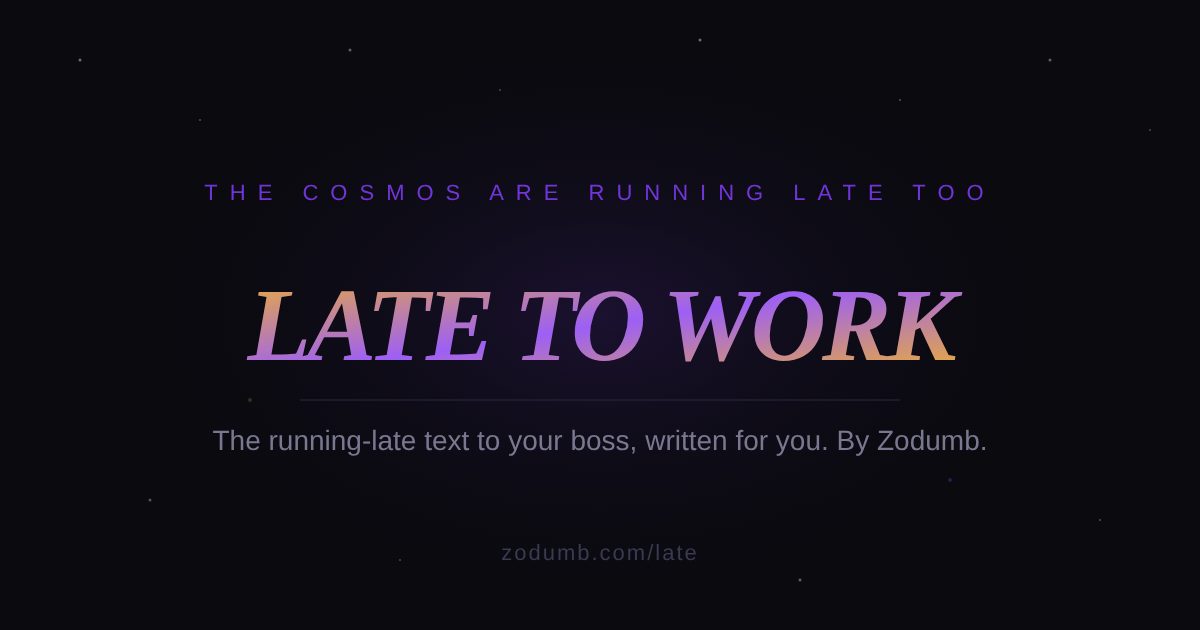
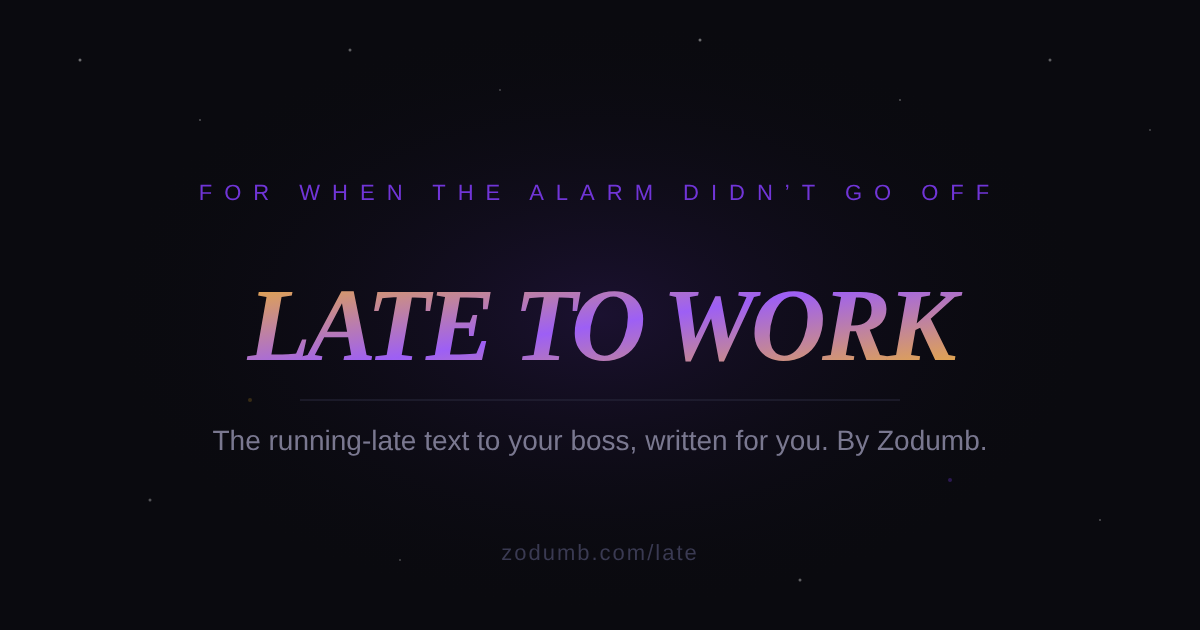
Tone down the wording on the excuse generators
Replaces the "the cosmos are..." lines, "Chaos is." and "questionable
cosmic energy" on /sick, /money and /late with plain copy, renames the
"Unhinged" option to "Absurd" and "Brutally honest" to "Honest", and
softens the matching Gemini instructions ("completely unhinged",
"chaotic truth energy", "soap-opera stakes"). The share card for the
excuse generators now says "Made with Zodumb" instead of "The cosmos are
judging you", and the social preview images are re-rendered with the
new taglines. The horoscope page is unchanged.

Claude-Session: https://claude.ai/code/session_01VKu2d9zDfeNTazfPdeBYm8

Changed region(s): [[0.185, 0.2714, 0.6783, 0.3317], [0.7708, 0.2714, 0.8325, 0.3317], [0.6783, 0.2714, 0.74, 0.3317]]

diff --git a/late.html b/late.html
@@ -8,7 +8,7 @@
 
     <!-- Primary SEO -->
     <title>Late to Work Excuse Generator — Text Your Boss | Zodumb</title>
-    <meta name="description" content="Running late? Get a free late to work excuse text, Slack message or email for your boss, teacher or date in seconds. Believable to unhinged. No sign-up." />
+    <meta name="description" content="Running late? Get a free late to work excuse text, Slack message or email for your boss, teacher or date in seconds. Believable to absurd. No sign-up." />
     <meta name="keywords" content="late to work excuse, late to work excuse text, running late text to boss, what to text boss when late, excuse for being late to work, running late message, late excuse generator" />
     <meta name="robots" content="index, follow, max-image-preview:large" />
     <link rel="canonical" href="https://zodumb.com/late" />
@@ -28,7 +28,7 @@
     <meta name="twitter:card" content="summary_large_image" />
     <meta name="twitter:url" content="https://zodumb.com/late" />
     <meta name="twitter:title" content="Late to Work Excuse Generator | Zodumb" />
-    <meta name="twitter:description" content="Running late? Get a ready-to-send excuse for your boss, teacher or date in seconds. Believable to unhinged." />
+    <meta name="twitter:description" content="Running late? Get a ready-to-send excuse for your boss, teacher or date in seconds. Believable to absurd." />
     <meta name="twitter:image" content="https://zodumb.com/og-image-late.png" />
     <meta name="twitter:image:alt" content="Zodumb Late to Work Excuse Generator" />
 
@@ -72,7 +72,7 @@
       "name": "What is a good excuse for being late to work?",
       "acceptedAnswer": {
         "@type": "Answer",
-        "text": "The best excuses are short, boring and believable, like traffic, a transit delay or a home issue. If you want something funnier, switch the vibe to Dramatic, Brutally honest or Unhinged."
+        "text": "The best excuses are short, boring and believable, like traffic, a transit delay or a home issue. If you want something funnier, switch the vibe to Dramatic, Honest or Absurd."
       }
     },
     {
@@ -190,15 +190,15 @@
       <h2>Who's waiting on you?</h2>
       <p>It isn't only for work. Pick your <strong>boss</strong>, <strong>manager</strong>, <strong>teacher</strong>, <strong>professor</strong>, a <strong>client</strong>, the <strong>team chat</strong>, your <strong>date</strong>, or a <strong>friend</strong> who's already at the restaurant. A message to a client reads differently than one to your group chat, and the generator adjusts the tone for you.</p>
 
-      <h2>From believable to unhinged</h2>
-      <p>Choose the vibe: <strong>Believable</strong> (traffic-level boring), <strong>Dramatic</strong> (a soap opera on the commute), <strong>Vague</strong> ("something came up"), <strong>Brutally honest</strong> (you snoozed nine times), or <strong>Unhinged</strong> (an excuse that escalates the more you read it). Each one gets a believability score. It's a joke, not a promise.</p>
+      <h2>From believable to absurd</h2>
+      <p>Choose the vibe: <strong>Believable</strong> (traffic-level boring), <strong>Dramatic</strong> (a big story about the commute), <strong>Vague</strong> ("something came up"), <strong>Honest</strong> (you hit snooze one too many times), or <strong>Absurd</strong> (a reason that gets sillier the more you read it). Each one gets a believability score. It's a joke, not a promise.</p>
 
       <h2>Example late excuse messages</h2>
       <ul>
         <li><strong>Believable, text to boss, 15 min:</strong> "Morning! Traffic on the highway is crawling, so I'm about 15 minutes behind. Should be in by 9:15. Sorry about that!"</li>
         <li><strong>Vague, Slack to team, 30 min:</strong> "Heads up, something came up this morning. Running about 30 behind, will catch up on anything I miss 🙏"</li>
-        <li><strong>Brutally honest, text to friend, 1 hour:</strong> "I'm not going to lie to you. I closed my eyes for 'five minutes' and woke up an hour later. Order me fries. I'm coming."</li>
-        <li><strong>Unhinged, text to date, 15 min:</strong> "Running 15 late because a goose has claimed my parking spot and we are currently negotiating. I'm winning. Mostly."</li>
+        <li><strong>Honest, text to friend, 1 hour:</strong> "I'm not going to lie to you. I closed my eyes for 'five minutes' and woke up an hour later. Order me fries. I'm coming."</li>
+        <li><strong>Absurd, text to date, 15 min:</strong> "Running 15 late because a goose has claimed my parking spot and we are currently negotiating. I'm winning. Mostly."</li>
       </ul>
 
       <h2>How it works</h2>
@@ -216,7 +216,7 @@
       <p>Keep it short: say you&#x27;re running late, give a rough arrival time, and apologize once. Pick Believable in the generator and choose how late you are, and it writes a ready-to-send text, Slack message or email for you.</p>
 
       <h3>What is a good excuse for being late to work?</h3>
-      <p>The best excuses are short, boring and believable, like traffic, a transit delay or a home issue. If you want something funnier, switch the vibe to Dramatic, Brutally honest or Unhinged.</p>
+      <p>The best excuses are short, boring and believable, like traffic, a transit delay or a home issue. If you want something funnier, switch the vibe to Dramatic, Honest or Absurd.</p>
 
       <h3>Should I text, Slack or email when I&#x27;m late?</h3>
       <p>Use whatever your workplace already uses for quick updates. A text works for most bosses, Slack suits teams that live in chat, and email is better for clients or professors. The generator writes all three.</p>

diff --git a/sick.html b/sick.html
@@ -82,7 +82,7 @@
           "name": "Can I choose how believable the excuse is?",
           "acceptedAnswer": {
             "@type": "Answer",
-            "text": "Yes. Pick from Believable, Dramatic, Vague, Unhinged, or Emergency, and the generator adjusts the tone accordingly — from a boring plausible excuse to a full unhinged escalation."
+            "text": "Yes. Pick from Believable, Dramatic, Vague, Absurd, or Emergency, and the generator adjusts the tone accordingly — from a boring, plausible excuse to a completely absurd one."
           }
         },
         {
@@ -183,7 +183,7 @@
       <p>Choose from <strong>boss</strong>, <strong>manager</strong>, <strong>HR</strong>, <strong>teacher</strong>, <strong>professor</strong>, <strong>coach</strong>, <strong>client</strong>, or the <strong>group chat</strong>. Each recipient nudges the tone — a message to HR reads differently than one to your roommate group chat.</p>
 
       <h2>Pick your believability</h2>
-      <p>Every excuse is generated at a chosen vibe: <strong>Believable</strong> (genuinely plausible), <strong>Dramatic</strong> (soap-opera stakes), <strong>Vague</strong> (zero specifics, maximum mystery), <strong>Unhinged</strong> (chaotic honesty), or <strong>Emergency</strong> (an escalating fake crisis). It's a comedy tool — the believability score is a punchline, not a promise.</p>
+      <p>Every excuse is generated at a chosen vibe: <strong>Believable</strong> (genuinely plausible), <strong>Dramatic</strong> (big, over-the-top stakes), <strong>Vague</strong> (zero specifics, maximum mystery), <strong>Absurd</strong> (silly, oversharing honesty), or <strong>Emergency</strong> (an escalating fake crisis). It's a comedy tool — the believability score is a punchline, not a promise.</p>
 
       <h2>Text, Slack, or email — your choice</h2>
       <p>Select the format and the generator writes accordingly: a short casual <strong>text message</strong>, a quick <strong>Slack message</strong>, or a full <strong>email</strong> complete with a subject line and sign-off.</p>
@@ -203,7 +203,7 @@
       <p>No. This is pure comedy, not a legal or medical document. The excuses are invented by AI for entertainment — accuracy and believability are not guaranteed.</p>
 
       <h3>Can I choose how believable the excuse is?</h3>
-      <p>Yes. Pick from Believable, Dramatic, Vague, Unhinged, or Emergency, and the tone adjusts accordingly.</p>
+      <p>Yes. Pick from Believable, Dramatic, Vague, Absurd, or Emergency, and the tone adjusts accordingly.</p>
 
       <h3>Does it work for text, Slack, and email?</h3>
       <p>Yes. Pick the format and the message is written to match, including a subject line for email.</p>

diff --git a/src/LateApp.jsx b/src/LateApp.jsx
@@ -26,8 +26,8 @@ const LATE_VIBES = [
   { id: 'believable', emoji: '✅', label: 'Believable' },
   { id: 'dramatic', emoji: '🎭', label: 'Dramatic' },
   { id: 'vague', emoji: '🌫', label: 'Vague' },
-  { id: 'honest', emoji: '😬', label: 'Brutally honest' },
-  { id: 'unhinged', emoji: '🤪', label: 'Unhinged' },
+  { id: 'honest', emoji: '😬', label: 'Honest' },
+  { id: 'unhinged', emoji: '🤪', label: 'Absurd' },
 ]
 
 const CHANNELS = [
@@ -105,10 +105,10 @@ export default function LateApp() {
 
         {/* Header */}
         <header style={styles.header}>
-          <div style={styles.eyebrow}>THE COSMOS ARE RUNNING LATE TOO</div>
+          <div style={styles.eyebrow}>FOR WHEN THE ALARM DIDN'T GO OFF</div>
           <div style={styles.title}>ZODUMB</div>
           <h1 style={styles.pageH1}>Late to Work Excuse Generator</h1>
-          <p style={styles.subtitle}>Running late? Get the text to your boss in one tap.<br />Believability not guaranteed. Chaos is.</p>
+          <p style={styles.subtitle}>Running late? Get the text to your boss in one tap.<br />Pick a tone, copy it, send it.</p>
         </header>
 
         {/* Main card */}
@@ -212,8 +212,8 @@ export default function LateApp() {
           {loading && (
             <div style={styles.loading}>
               <div style={styles.orb} />
-              <p style={styles.loadingText}>The cosmos are stalling for you…</p>
-              <p style={styles.loadingSubtext}>Inventing traffic that never existed.</p>
+              <p style={styles.loadingText}>Writing your excuse…</p>
+              <p style={styles.loadingSubtext}>Finding a reason that works.</p>
             </div>
           )}
 
@@ -269,7 +269,7 @@ export default function LateApp() {
 
         {/* Footer */}
         <footer style={styles.footer}>
-          <p>Made with questionable cosmic energy · No clocks were harmed</p>
+          <p>Made by Zodumb · For entertainment only</p>
         </footer>
 
       </div>

diff --git a/src/SickApp.jsx b/src/SickApp.jsx
@@ -18,7 +18,7 @@ const SICK_VIBES = [
   { id: 'believable', emoji: '✅', label: 'Believable' },
   { id: 'dramatic', emoji: '🎭', label: 'Dramatic' },
   { id: 'vague', emoji: '🌫', label: 'Vague' },
-  { id: 'unhinged', emoji: '🤪', label: 'Unhinged' },
+  { id: 'unhinged', emoji: '🤪', label: 'Absurd' },
   { id: 'emergency', emoji: '🚨', label: 'Emergency' },
 ]
 
@@ -96,10 +96,10 @@ export default function SickApp() {
 
         {/* Header */}
         <header style={styles.header}>
-          <div style={styles.eyebrow}>THE COSMOS ARE COVERING FOR YOU</div>
+          <div style={styles.eyebrow}>FOR WHEN YOU NEED A DAY OFF</div>
           <div style={styles.title}>ZODUMB</div>
           <h1 style={styles.pageH1}>Call In Sick Excuse Generator</h1>
-          <p style={styles.subtitle}>Pick your excuse. Send with confidence.<br />Believability not guaranteed. Chaos is.</p>
+          <p style={styles.subtitle}>Pick your excuse. Send with confidence.<br />Pick a tone, copy it, send it.</p>
         </header>
 
         {/* Main card */}
@@ -186,8 +186,8 @@ export default function SickApp() {
           {loading && (
             <div style={styles.loading}>
               <div style={styles.orb} />
-              <p style={styles.loadingText}>The cosmos are deliberating…</p>
-              <p style={styles.loadingSubtext}>Forging a note from the cosmos.</p>
+              <p style={styles.loadingText}>Writing your excuse…</p>
+              <p style={styles.loadingSubtext}>Finding a reason that works.</p>
             </div>
           )}
 
@@ -238,7 +238,7 @@ export default function SickApp() {
 
         {/* Footer */}
         <footer style={styles.footer}>
-          <p>Made with questionable cosmic energy · No stars were harmed</p>
+          <p>Made by Zodumb · For entertainment only</p>
         </footer>
 
       </div>

diff --git a/money.html b/money.html
@@ -183,7 +183,7 @@
       <p>Choose a <strong>friend</strong>, <strong>best friend</strong>, <strong>sibling</strong>, <strong>parent</strong>, <strong>cousin</strong>, <strong>aunt or uncle</strong>, <strong>ex</strong>, <strong>coworker</strong>, or <strong>roommate</strong>. Saying no to your mom reads differently than saying no to your ex.</p>
 
       <h2>From gentle to absurd</h2>
-      <p>Every message is written in the vibe you pick: <strong>Gentle</strong> (kind and relationship-saving), <strong>Honest</strong> (a clear, respectful no), <strong>Vague</strong> ("money's tight right now"), <strong>Dramatic</strong> (a financial soap opera), or <strong>Absurd</strong> (a ridiculous reason that escalates as it goes). Each one comes with a <strong>friendship survival score</strong> — a punchline, not a promise.</p>
+      <p>Every message is written in the vibe you pick: <strong>Gentle</strong> (kind and relationship-saving), <strong>Honest</strong> (a clear, respectful no), <strong>Vague</strong> ("money's tight right now"), <strong>Dramatic</strong> (an over-the-top money tragedy), or <strong>Absurd</strong> (a ridiculous reason that escalates as it goes). Each one comes with a <strong>friendship survival score</strong> — a punchline, not a promise.</p>
 
       <h2>Text, email, or say it out loud</h2>
       <p>Get a short <strong>text message</strong>, a full <strong>email</strong> with a subject line, or a short <strong>script</strong> to say in person or on a call. You can also add how much they asked for and what it's for, and the message will work it in.</p>

diff --git a/src/MoneyApp.jsx b/src/MoneyApp.jsx
@@ -100,10 +100,10 @@ export default function MoneyApp() {
 
         {/* Header */}
         <header style={styles.header}>
-          <div style={styles.eyebrow}>THE COSMOS SAY YOUR WALLET IS CLOSED</div>
+          <div style={styles.eyebrow}>FOR WHEN SOMEONE ASKS FOR A LOAN</div>
           <div style={styles.title}>ZODUMB</div>
           <h1 style={styles.pageH1}>How to Say No to Lending Money</h1>
-          <p style={styles.subtitle}>Someone wants a loan. You want to say no.<br />From gentle to absurd. Friendship not guaranteed.</p>
+          <p style={styles.subtitle}>Someone wants a loan. You want to say no.<br />From gentle to absurd, ready to send.</p>
         </header>
 
         {/* Main card */}
@@ -207,8 +207,8 @@ export default function MoneyApp() {
           {loading && (
             <div style={styles.loading}>
               <div style={styles.orb} />
-              <p style={styles.loadingText}>The cosmos are checking your balance…</p>
-              <p style={styles.loadingSubtext}>Insufficient funds. Drafting your no.</p>
+              <p style={styles.loadingText}>Writing your no…</p>
+              <p style={styles.loadingSubtext}>Choosing the right words.</p>
             </div>
           )}
 
@@ -259,7 +259,7 @@ export default function MoneyApp() {
 
         {/* Footer */}
         <footer style={styles.footer}>
-          <p>Made with questionable cosmic energy · No wallets were opened</p>
+          <p>Made by Zodumb · For entertainment only</p>
         </footer>
 
       </div>

diff --git a/src/shareCard.js b/src/shareCard.js
@@ -105,12 +105,12 @@ function drawBackground(ctx) {
   ctx.stroke()
 }
 
-function drawHeader(ctx) {
+function drawHeader(ctx, eyebrow) {
   ctx.textAlign = 'center'
 
   ctx.fillStyle = COLORS.purple
   ctx.font = `500 26px ${SANS}`
-  ctx.fillText('T H E   C O S M O S   A R E   J U D G I N G   Y O U', W / 2, 240)
+  ctx.fillText(eyebrow.split('').join(' '), W / 2, 240)
 
   const grad = ctx.createLinearGradient(W * 0.25, 0, W * 0.75, 0)
   grad.addColorStop(0, COLORS.gold)
@@ -348,7 +348,8 @@ export async function generateShareImage({ mode, result, beef, sick, money, late
   ctx.textBaseline = 'alphabetic'
 
   drawBackground(ctx)
-  drawHeader(ctx)
+  const isExcuse = mode === 'sick' || mode === 'money' || mode === 'late'
+  drawHeader(ctx, isExcuse ? 'MADE WITH ZODUMB' : 'THE COSMOS ARE JUDGING YOU')
 
   if (mode === 'beef' && beef) renderBeef(ctx, beef)
   else if (mode === 'sick' && sick) renderSick(ctx, sick)
@@ -376,9 +377,9 @@ export async function shareOrDownloadCard({ mode, result, beef, sick, money, lat
 
   const shareText =
     mode === 'beef' ? 'Our cosmic compatibility 💘'
-    : mode === 'sick' ? 'My cosmically-approved sick note 🤒'
+    : mode === 'sick' ? 'My sick-day excuse 🤒'
     : mode === 'money' ? 'Why I can\'t lend you money 💸'
-    : mode === 'late' ? 'My cosmically-approved late excuse ⏰'
+    : mode === 'late' ? 'My running-late excuse ⏰'
     : 'My unhinged horoscope ✦'
 
   if (navigator.canShare && navigator.canShare({ files: [file] })) {

diff --git a/api/late.js b/api/late.js
@@ -26,10 +26,10 @@ const LATENESS = {
 // The believability dial.
 const VIBES = {
   believable: { label: 'Believable', tone: 'genuinely plausible and boring. Traffic-level. The kind of excuse nobody questions.' },
-  dramatic: { label: 'Dramatic', tone: 'wildly over-the-top, soap-opera stakes, unnecessary detail.' },
+  dramatic: { label: 'Dramatic', tone: 'over-the-top and dramatic, with unnecessary detail.' },
   vague: { label: 'Vague', tone: 'suspiciously vague. "Something came up." Zero specifics, maximum mystery.' },
-  honest: { label: 'Brutally honest', tone: 'brutally, hilariously honest about the real reason (overslept, snoozed 9 times, could not find a sock).' },
-  unhinged: { label: 'Unhinged', tone: 'completely unhinged. The reason is absurd and escalates the more you read it.' },
+  honest: { label: 'Honest', tone: 'funny and self-aware about the real reason (overslept, hit snooze too many times, could not find a sock).' },
+  unhinged: { label: 'Absurd', tone: 'silly and absurd. The reason gets more ridiculous the more you read it.' },
 };
 
 const CHANNELS = {

diff --git a/api/sicknote.js b/api/sicknote.js
@@ -14,12 +14,12 @@ const RECIPIENTS = {
   team: { label: 'the group chat', tone: 'a message to the team/group chat. Casual, chaotic, oversharing.' },
 };
 
-// The believability dial — how hard the AI leans into realism vs chaos.
+// The believability dial — how hard the AI leans into realism vs silliness.
 const VIBES = {
   believable: { label: 'Believable', tone: 'genuinely plausible and boring. The kind of excuse nobody questions.' },
-  dramatic: { label: 'Dramatic', tone: 'wildly over-the-top, soap-opera stakes, unnecessary detail.' },
+  dramatic: { label: 'Dramatic', tone: 'over-the-top and dramatic, with unnecessary detail.' },
   vague: { label: 'Vague', tone: 'suspiciously vague. "Not feeling well." Zero specifics, maximum mystery.' },
-  unhinged: { label: 'Unhinged', tone: 'completely unhinged and honest to a fault. Chaotic truth energy.' },
+  unhinged: { label: 'Absurd', tone: 'silly and oversharing, honest to a fault in a funny way.' },
   emergency: { label: 'Emergency', tone: 'a fake "emergency" that escalates absurdly the more you read it.' },
 };
 

diff --git a/api/nomoney.js b/api/nomoney.js
@@ -20,8 +20,8 @@ const VIBES = {
   gentle: { label: 'Gentle', tone: 'kind, warm and soft. Lets them down easy and keeps the relationship intact.' },
   honest: { label: 'Honest', tone: 'straightforward and real. A clear, respectful no with no fake excuse.' },
   vague: { label: 'Vague', tone: 'suspiciously vague. "Money is tight right now." Zero specifics, maximum mystery.' },
-  dramatic: { label: 'Dramatic', tone: 'wildly over-the-top financial tragedy, soap-opera stakes, unnecessary detail.' },
-  absurd: { label: 'Absurd', tone: 'completely absurd. The reason is ridiculous and escalates the more you read it.' },
+  dramatic: { label: 'Dramatic', tone: 'an over-the-top money tragedy, dramatic, with unnecessary detail.' },
+  absurd: { label: 'Absurd', tone: 'silly and absurd. The reason gets more ridiculous the more you read it.' },
 };
 
 const CHANNELS = {
